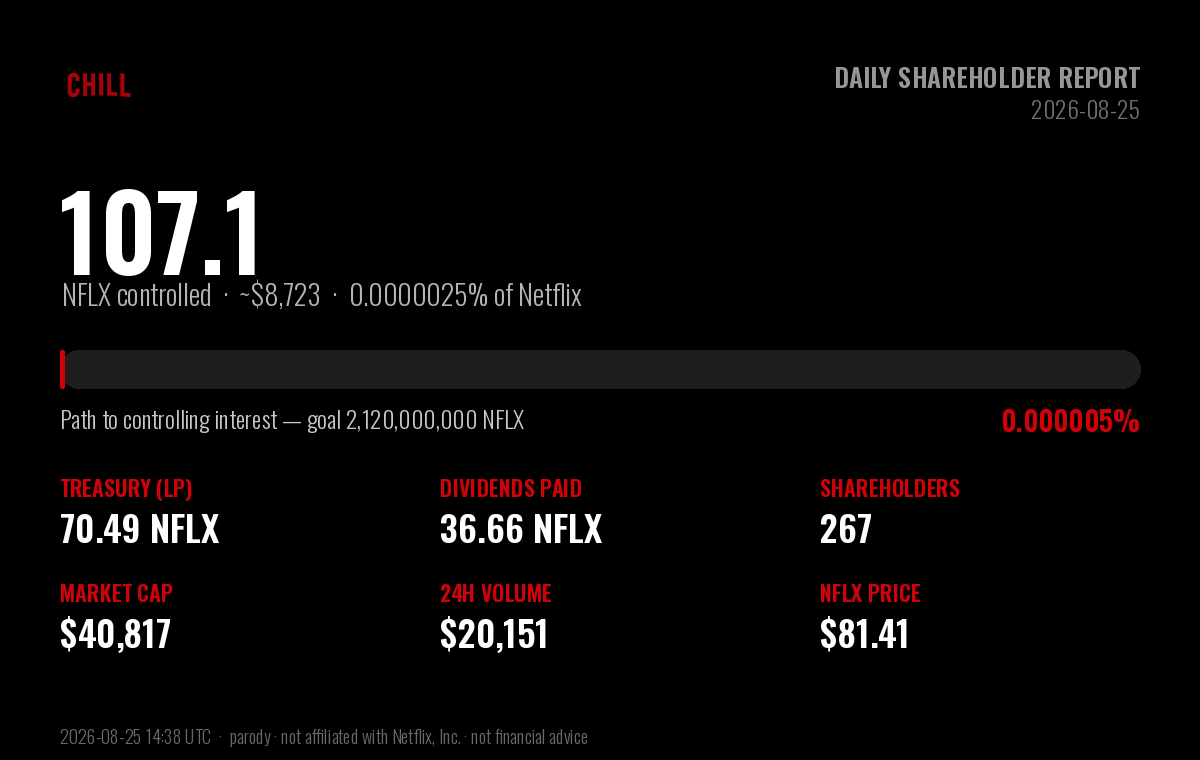
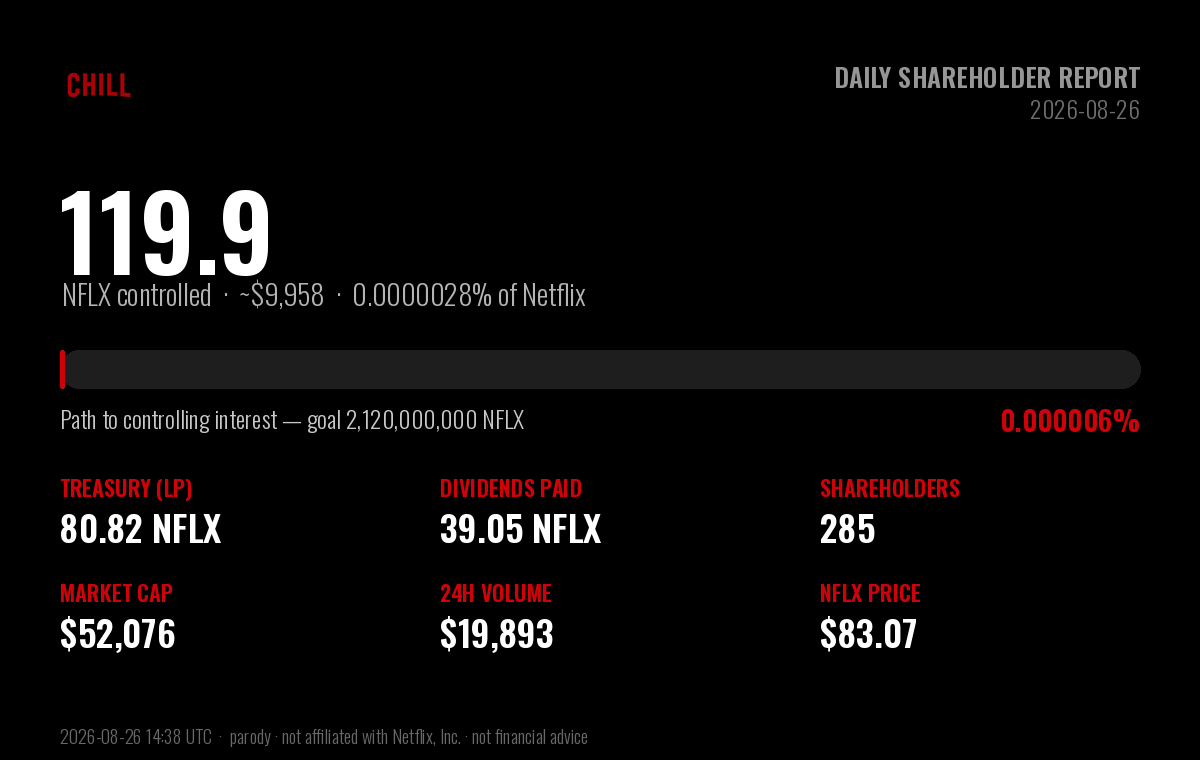
chore: daily $CHILL shareholder report (2026-08-26)

diff --git a/daily-holder-report/README.md b/daily-holder-report/README.md
@@ -1,6 +1,6 @@
 # $CHILL — Daily Shareholder Report
 
-### Netflix and Chill · Report to Shareholders · 2026-08-25
+### Netflix and Chill · Report to Shareholders · 2026-08-26
 
 > **Corporate objective:** acquire a controlling interest in Netflix (NFLX).
 > Netflix has **4,220,000,000** shares outstanding; a majority
@@ -13,53 +13,53 @@
 
 | Metric | Value |
 |---|---|
-| **NFLX under $CHILL control** | **107.15 NFLX** (~$8,723) |
-| Stake in Netflix | 0.000002539% of shares outstanding |
-| Progress to controlling interest | 0.0000051% of 2,120,000,000 |
-| Shares remaining to majority | 2,119,999,893 NFLX |
+| **NFLX under $CHILL control** | **119.87 NFLX** (~$9,958) |
+| Stake in Netflix | 0.000002841% of shares outstanding |
+| Progress to controlling interest | 0.0000057% of 2,120,000,000 |
+| Shares remaining to majority | 2,119,999,880 NFLX |
 
 ## Balance sheet — NFLX holdings
 
 | Holding | NFLX | USD |
 |---|---|---|
-| Treasury (protocol-owned liquidity) | 70.49 | $5,739 |
-| Dividends distributed to shareholders | 36.66 | $2,984 |
-| **Total NFLX controlled** | **107.15** | **$8,723** |
+| Treasury (protocol-owned liquidity) | 80.82 | $6,714 |
+| Dividends distributed to shareholders | 39.05 | $3,244 |
+| **Total NFLX controlled** | **119.87** | **$9,958** |
 
 ## Last 24 hours
 
 | Metric | Value |
 |---|---|
-| Trading volume | 247.51 NFLX (~$20,151) |
-| Net NFLX accumulated | 20.59 NFLX |
-| Dividends generated | 2.4751 NFLX |
-| Transactions | 216 (136 buys / 80 sells) |
-| $CHILL price change | +103.7% |
+| Trading volume | 239.47 NFLX (~$19,893) |
+| Net NFLX accumulated | 10.33 NFLX |
+| Dividends generated | 2.3947 NFLX |
+| Transactions | 135 (66 buys / 69 sells) |
+| $CHILL price change | -36.1% |
 
 ## Shareholder & market data
 
 | Metric | Value |
 |---|---|
-| Shareholders of record | 267 |
-| Lifetime unique participants | 1014 |
+| Shareholders of record | 285 |
+| Lifetime unique participants | 1037 |
 | Shares outstanding ($CHILL) | 1,000,000,000 |
-| Market capitalization | $40,817 |
-| $CHILL price | $0.00004082 |
-| NFLX price | $81.41 |
-| Lifetime volume | 3,665.61 NFLX (~$298,430) |
-| Lifetime transactions | 4,809 (2,751 buys / 2,058 sells) |
-| Days since IPO (launch) | 36 |
+| Market capitalization | $52,076 |
+| $CHILL price | $0.00005208 |
+| NFLX price | $83.07 |
+| Lifetime volume | 3,905.08 NFLX (~$324,393) |
+| Lifetime transactions | 4,944 (2,817 buys / 2,127 sells) |
+| Days since IPO (launch) | 37 |
 
 ## Per-share metrics
 
 | Metric | Value |
 |---|---|
-| NFLX backing per 1M $CHILL | 0.107149 NFLX |
-| Dividends per 1M $CHILL | 0.036656 NFLX |
+| NFLX backing per 1M $CHILL | 0.119875 NFLX |
+| Dividends per 1M $CHILL | 0.039051 NFLX |
 
 ---
 
-*Report generated 2026-08-25 14:38 UTC · block 45,806,254 · data via the Sentry-Robinhood
+*Report generated 2026-08-26 14:38 UTC · block 46,664,154 · data via the Sentry-Robinhood
 subgraph and Robinhood Chain explorer.*
 
 **Disclaimer:** $CHILL is an independent, community-driven **parody** token. It is
